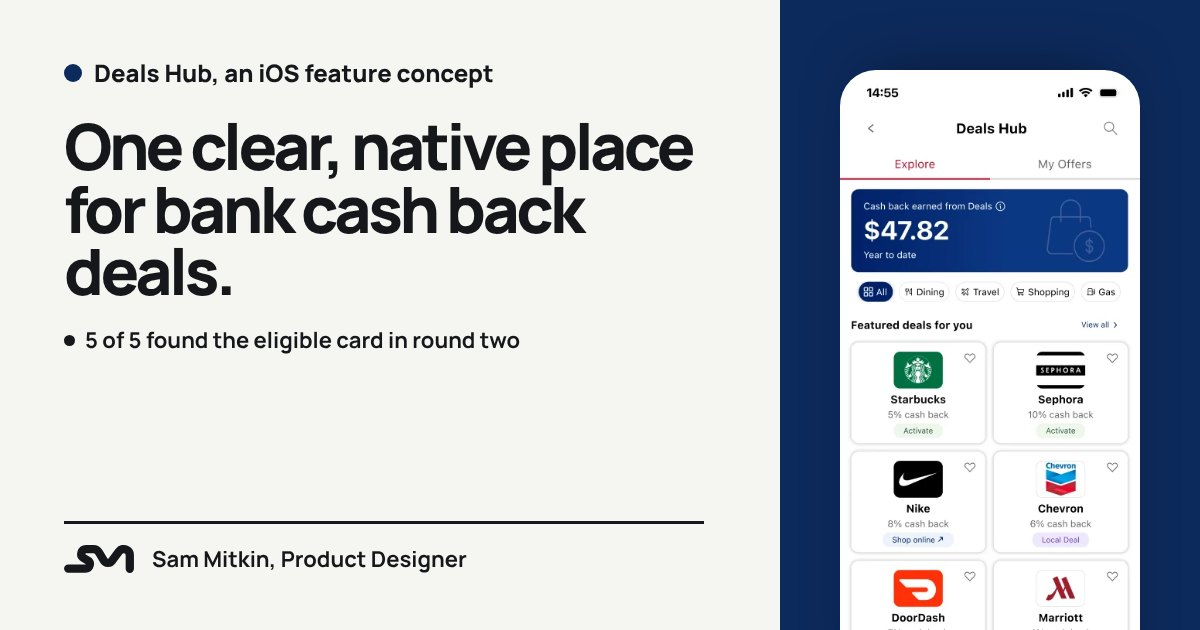
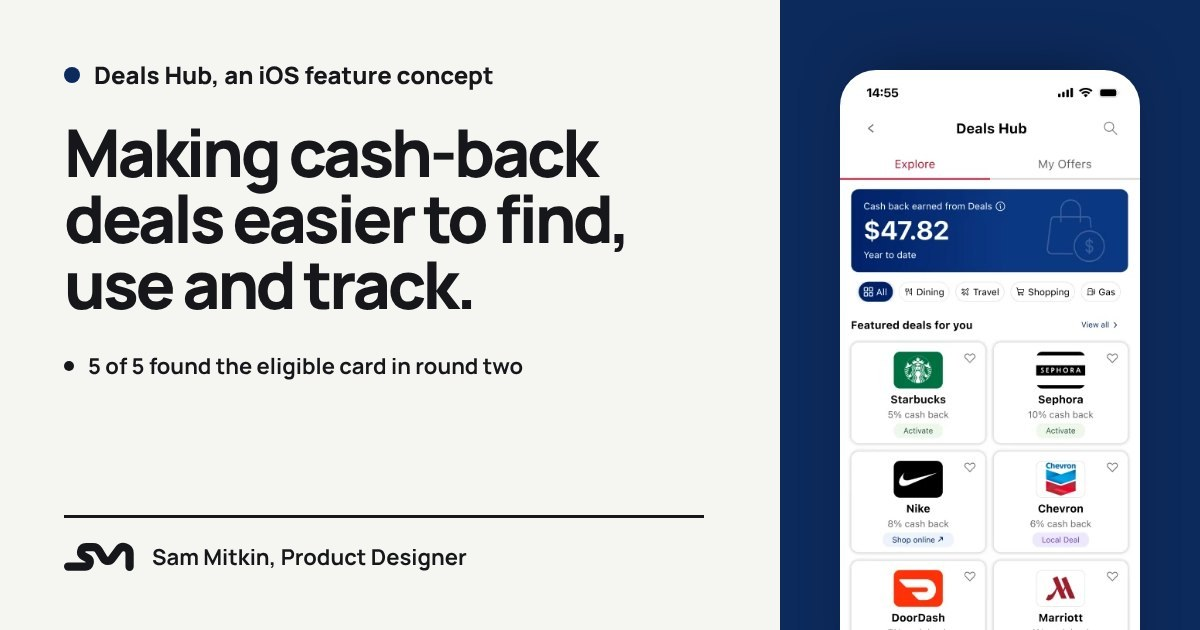
Copy: precision and rhythm pass across cases; new Frant/Deals Hub link previews
Claude-Session: https://claude.ai/code/session_01XtMnJRJs91ficiZyW64tjZ

Changed region(s): [[0.0308, 0.181, 0.5858, 0.6032], [0.0617, 0.8143, 0.5858, 0.9048], [0.0617, 0.0905, 0.4008, 0.1508]]

diff --git a/src/pages/Frant.tsx b/src/pages/Frant.tsx
@@ -130,8 +130,12 @@ export function Frant() {
             Frant, an iOS app designed end to end
           </p>
           <h1 className="mt-4 text-[44px] font-extrabold leading-[0.96] tracking-[-0.055em] md:mt-6 md:text-[64px] lg:text-[clamp(64px,5.85vw,84px)] lg:leading-[0.95]">
-            Helping barbers keep their regulars, and what happens after Send.
+            Helping barbers notice when regulars stop coming back.
           </h1>
+          <p className="mt-5 max-w-[40em] text-[14px] font-medium leading-[1.5] text-graphite md:text-[15px]">
+            I designed a priority list that explains who needs attention, then explored what happens after a message is
+            sent.
+          </p>
           <ExternalButton href={PROTOTYPE_URL} label="Try the prototype" className="mt-7" />
         </div>
         <dl className="mt-7 border-t-2 border-ink md:grid md:grid-cols-2 md:gap-x-6 lg:col-span-4 lg:mt-0 lg:block">
@@ -256,7 +260,7 @@ export function Frant() {
           </Section>
 
           {/* 2 Research */}
-          <Section id="research" kicker="Research" title="The gap wasn’t more data. It was one clear next action.">
+          <Section id="research" kicker="Research" title="Barbers had the data. They needed to know who to text today.">
             <Pad>
               <Table
                 head={["App", "For lapsed clients", "Ranks by each client’s rhythm", "Says why"]}
@@ -337,7 +341,7 @@ export function Frant() {
                     },
                   ]}
                 />
-                <SubHeading>A retention layer, not another booking app.</SubHeading>
+                <SubHeading>One loop: see who’s overdue, reach out, track what happens.</SubHeading>
                 <Prose className="mt-4">
                   <p>
                     I designed one loop and kept everything else light. Frant finds regulars who are past their usual
@@ -606,7 +610,7 @@ export function Frant() {
                     and Stacey said they’d forget to log every visit by hand.
                   </p>
                   <p>
-                    This wasn’t a usability bug. People understood the buttons. The risk was behavior: once the real
+                    People understood the buttons, but updating Frant didn’t match what they did after sending a text. Once the real
                     action happened, the job felt finished. If barbers stop updating Frant, the list goes stale and the
                     product loses its value.
                   </p>

diff --git a/src/pages/Tasky.tsx b/src/pages/Tasky.tsx
@@ -60,7 +60,7 @@ export function Tasky() {
         dot="bg-tasky"
         kicker="Tasky, a client project for PlanIt! Efficiency Solutions"
         title="Finding local work people can trust."
-        note="Team project with two other UX designers. I led research and synthesis, owned the worker flow (about 35 screens and states), and joined and tested our clickable prototype. My teammates owned the poster and staff flows. Shared with the client’s permission."
+        note="Team project with two other UX designers. I led research and synthesis, owned the worker flow (about 35 screens and states), and joined the three flows into one clickable prototype, then checked every path before the client review. My teammates owned the poster and staff flows. Shared with the client’s permission."
         link={{ href: PROTOTYPE_URL, label: "Try the prototype" }}
         meta={[
           ["Client", "PlanIt! Efficiency Solutions"],
@@ -295,7 +295,7 @@ export function Tasky() {
         </Section>
 
         {/* 5 Key decision */}
-        <Section id="testing" kicker="Key decision" title="Testing turned a confusing code into one simple rule.">
+        <Section id="testing" kicker="Key decision" title="Testing showed a confusing code. We made one simple rule.">
           <DecisionPanel tint="bg-tasky-tint">
             <Prose>
               <p>
@@ -409,7 +409,7 @@ export function Tasky() {
                 { img: img("tasky/v2-find", "Exploration: Find work with category chips and large work photos"), tag: "Find work", label: "Category colors make the list scannable." },
                 { img: img("tasky/v2-details", "Exploration: work details with a large photo and the pay in a dark card"), tag: "Work details", label: "Pay and date in one block at the top." },
               ]}
-              caption="My exploration, not shipped. The photos are sample images, AI-generated."
+              caption="My exploration, not part of the final client handoff. The photos are sample images, AI-generated."
             />
           </Pad>
         </Section>

diff --git a/src/pages/DealsHub.tsx b/src/pages/DealsHub.tsx
@@ -42,7 +42,7 @@ export function DealsHub() {
   usePageMeta({
     title: "Deals Hub Case Study — Sam Mitkin",
     description:
-      "Deals Hub: a feature concept that brings Bank of America cash-back deals into one native place. Five interviews and two rounds of usability testing.",
+      "Deals Hub: a feature concept that brings Bank of America cash-back deals into one place inside the app. Five interviews and two rounds of usability testing.",
     path: "/deals-hub",
   });
   const active = useActiveSection(IDS);
@@ -55,7 +55,7 @@ export function DealsHub() {
         name="Deals Hub"
         dot="bg-deals"
         kicker="Deals Hub, an iOS feature concept for banking"
-        title="One clear, native place for bank cash-back deals."
+        title="Making cash-back deals easier to find, use and track."
         lede="Show the exact card before someone pays."
         note="Student concept. Not affiliated with Bank of America."
         link={{ href: PROTOTYPE_URL, label: "Try the prototype" }}
@@ -164,7 +164,7 @@ export function DealsHub() {
         </Section>
 
         {/* 2 Research */}
-        <Section id="research" kicker="Research" title="Five people, four patterns.">
+        <Section id="research" kicker="Research" title="Deals were found by chance, and their status got lost.">
           <Pad>
             <Points
               columns={2}
@@ -296,7 +296,7 @@ export function DealsHub() {
         </Section>
 
         {/* 4 Key decision / testing */}
-        <Section id="testing" kicker="Key decision" title="One card detail decided the second round.">
+        <Section id="testing" kicker="Key decision" title="One missing card detail changed the design.">
           <DecisionPanel tint="bg-deals-tint">
             <Prose>
               <p>

diff --git a/src/pages/MoveEase.tsx b/src/pages/MoveEase.tsx
@@ -85,7 +85,7 @@ export function MoveEase() {
             body: "Four interviews, a persona, information architecture, lo-fi to hi-fi design, and a usability test with five participants.",
           },
           {
-            label: "Result, tested",
+            label: "Found in testing",
             kind: "tested",
             body: "Testing found two priority fixes: a labeled New Task button and a fully tappable assignment row.",
           },
@@ -333,7 +333,7 @@ export function MoveEase() {
                   body: (
                     <ul>
                       <li>A single dashboard entry point made navigation much easier.</li>
-                      <li>Two task categories reduced cognitive load.</li>
+                      <li>Two task categories, Address Updates and Utilities Setup, split the list into smaller groups.</li>
                     </ul>
                   ),
                 },

diff --git a/src/components/home/MoreWork.tsx b/src/components/home/MoreWork.tsx
@@ -151,7 +151,7 @@ export function MoreWork() {
             MoveEase
           </h2>
           <p className="mt-2 text-[15px] font-medium leading-[1.5] md:mt-3 md:text-[17px] md:leading-[1.55]">
-            <span className="hidden md:inline">Staying ahead of the admin after a move. </span>
+            Staying ahead of the admin after a move. 
             Testing led to two fixes: a labeled New Task button and a fully tappable row.
           </p>
           <Link to="/moveease" className="pf-link inline-flex min-h-11 items-center text-[15px] font-extrabold md:mt-2 md:text-[16px]">
